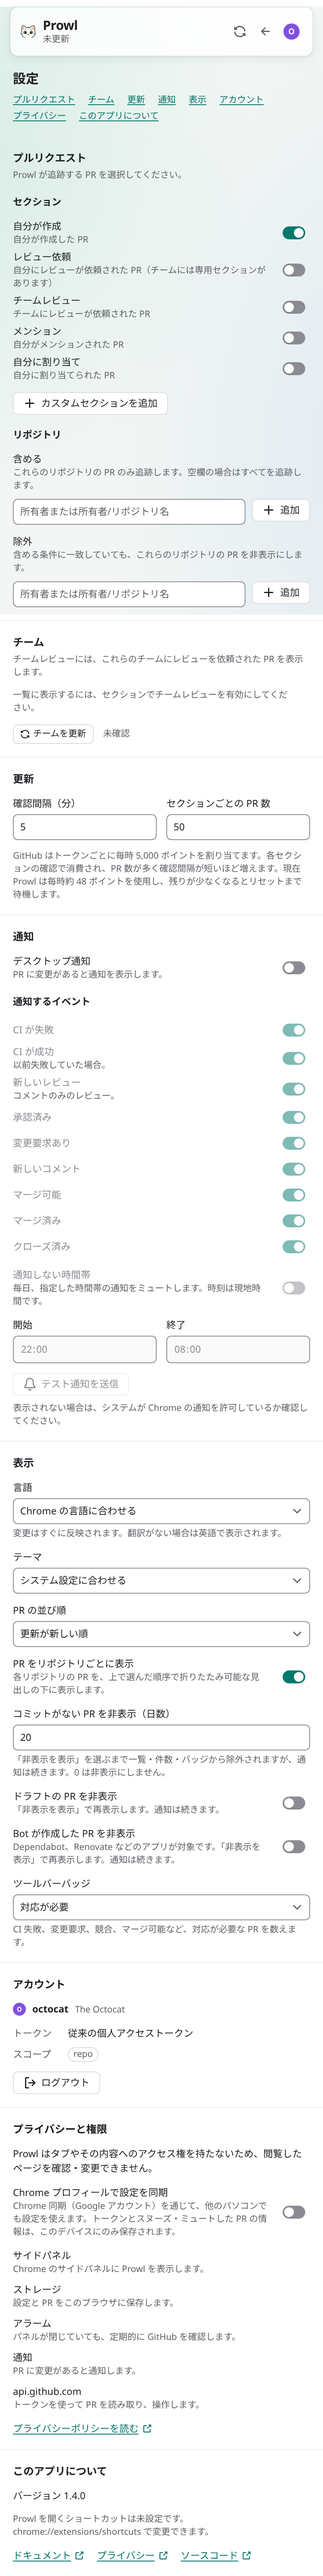
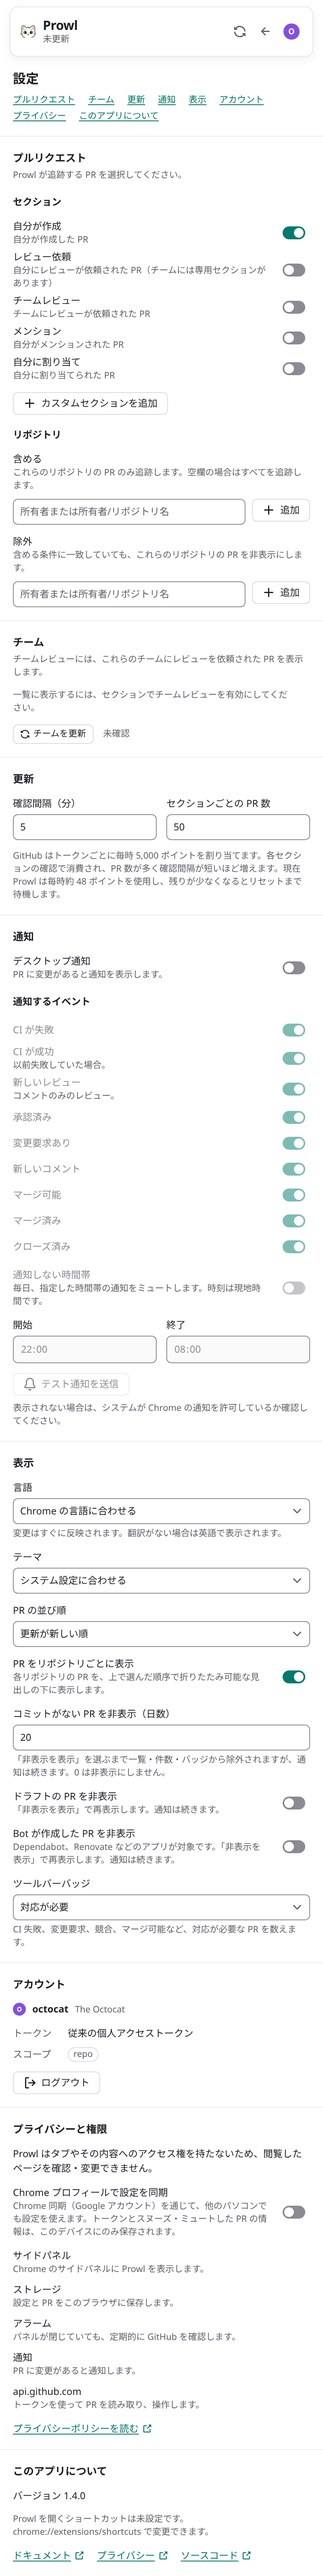
fix(ui): restore solid backgrounds and startup loading
Remove the mint and blue fixed body gradients introduced in PR #38, use the existing solid theme background, and refresh only the English and Japanese settings captures at their existing dimensions. Render the shared loading skeleton before asynchronous language initialization so blocked storage never leaves a blank panel.

Changed region(s): [[0.0, 0.0, 0.375, 0.1562], [0.9062, 0.1249, 1.0, 0.2186]]

diff --git a/src/sidepanel/App.tsx b/src/sidepanel/App.tsx
@@ -4,10 +4,10 @@ import { useEffect, useRef } from 'preact/hooks';
 import { t } from '../lib/i18n';
 import type { Theme } from '../lib/model';
 import { Header } from './components/Header';
+import { Loading } from './components/Loading';
 import { lazy } from './components/lazy';
 import { RefreshAnnouncer, ShortcutsDialog, useShortcuts } from './components/Shortcuts';
 import { StatusBanner } from './components/StatusBanner';
-import { Skeleton } from './components/ui/Skeleton';
 import { ToastRegion } from './components/ui/Toast';
 import { type Route, route } from './state/router';
 import { hydrated, settings } from './state/store';
@@ -35,30 +35,6 @@ const LABELS: Record<Route, string> = {
 function applyTheme(theme: Theme): void {
   if (theme === 'system') delete document.documentElement.dataset.theme;
   else document.documentElement.dataset.theme = theme;
-}
-
-function Loading() {
-  return (
-    <>
-      <Header />
-      <main class="app-main" aria-busy="true" aria-label={t('loading')}>
-        <div class="app-loading">
-          <span class="sr-only" role="status">
-            {t('loading')}
-          </span>
-          {[0, 1, 2].map((row) => (
-            <div class="app-loading__row" key={row}>
-              <Skeleton shape="circle" width={16} />
-              <div class="app-loading__lines">
-                <Skeleton width="85%" />
-                <Skeleton width="50%" />
-              </div>
-            </div>
-          ))}
-        </div>
-      </main>
-    </>
-  );
 }
 
 function Shell() {
@@ -94,7 +70,14 @@ export function App() {
   useSignalEffect(() => applyTheme(settings.value.theme));
   return (
     <>
-      {hydrated.value ? <Shell /> : <Loading />}
+      {hydrated.value ? (
+        <Shell />
+      ) : (
+        <>
+          <Header />
+          <Loading />
+        </>
+      )}
       <ToastRegion />
     </>
   );

diff --git a/src/sidepanel/App.css b/src/sidepanel/App.css
@@ -14,36 +14,6 @@ html {
   outline: none;
 }
 
-.app-loading {
-  display: flex;
-  flex-direction: column;
-  gap: var(--space-4);
-  padding: var(--space-4);
-}
-
-.app-loading__row {
-  display: flex;
-  gap: var(--space-3);
-}
-
-.app-loading__lines {
-  flex: 1;
-}
-
-/* Soft color lives behind the reading surfaces; only chrome needs blur. */
-body {
-  background-image:
-    radial-gradient(ellipse 370px 430px at -15% 25%, var(--glass-mint), transparent),
-    radial-gradient(ellipse 360px 580px at 120% 74%, var(--glass-blue), transparent),
-    linear-gradient(var(--glass-canvas), var(--glass-canvas));
-  background-attachment: fixed;
-}
-@media (prefers-reduced-transparency: reduce) {
-  body {
-    background-image: linear-gradient(var(--glass-canvas), var(--glass-canvas));
-  }
-}
-
 /* A separate backdrop avoids making fixed menus relative to the glass container. */
 .header::after,
 .list__filter::after,

diff --git a/src/sidepanel/components/Loading.tsx b/src/sidepanel/components/Loading.tsx
@@ -1,0 +1,25 @@
+import { t } from '../../lib/i18n';
+import { Skeleton } from './ui/Skeleton';
+import './Loading.css';
+
+/** Available before storage and the selected catalog finish loading. */
+export function Loading() {
+  return (
+    <main class="app-main" aria-busy="true" aria-label={t('loading')}>
+      <div class="app-loading">
+        <span class="sr-only" role="status">
+          {t('loading')}
+        </span>
+        {[0, 1, 2].map((row) => (
+          <div class="app-loading__row" key={row}>
+            <Skeleton shape="circle" width={16} />
+            <div class="app-loading__lines">
+              <Skeleton width="85%" />
+              <Skeleton width="50%" />
+            </div>
+          </div>
+        ))}
+      </div>
+    </main>
+  );
+}

diff --git a/src/sidepanel/main.tsx b/src/sidepanel/main.tsx
@@ -2,6 +2,7 @@ import { render } from 'preact';
 import { messageLocale } from '../lib/i18n';
 import { loadLanguage } from '../lib/storage/language';
 import { subscribeSettings } from '../lib/storage/settings';
+import { Loading } from './components/Loading';
 import { hydrateStore } from './state/store';
 import '../styles/tokens.css';
 import '../styles/base.css';
@@ -24,4 +25,8 @@ async function start(root: HTMLElement) {
 }
 
 const root = document.getElementById('app');
-if (root) void start(root);
+if (root) {
+  document.documentElement.lang = messageLocale();
+  render(<Loading />, root);
+  void start(root);
+}

diff --git a/src/sidepanel/components/Loading.css b/src/sidepanel/components/Loading.css
@@ -1,0 +1,15 @@
+.app-loading {
+  display: flex;
+  flex-direction: column;
+  gap: var(--space-4);
+  padding: var(--space-4);
+}
+
+.app-loading__row {
+  display: flex;
+  gap: var(--space-3);
+}
+
+.app-loading__lines {
+  flex: 1;
+}

diff --git a/docs/patterns.md b/docs/patterns.md
@@ -24,7 +24,7 @@ working knowledge. Keep it short and current: newest knowledge wins.
 - CSS uses semantic tokens only (`--color-*`, `--space-*`, `--text-*`, `--duration-*`); src/styles/tokens.test.ts fails on raw colors outside tokens.css and tokens.base.css and when the contrast table in docs/design.md is stale (it prints the new table). Theme = `document.documentElement.dataset.theme` ('light' | 'dark', absent = system).
 - Mount `<ToastRegion />` once and call `showToast({ message, tone })`. Dialog is controlled (`open`/`onClose`) and restores focus itself.
 - Preact tests: wrap raw `dispatchEvent` calls and fake-timer advances in `act()`. happy-dom has `dialog.showModal()` but no Esc handling: dispatch `new Event('cancel', { cancelable: true })`.
-- Panel state: import the signals from `src/sidepanel/state/store.ts` (`settings`, `auth`, `snapshot`, `pollState`, `prLocal`, `hydrated`; read `.value` in render and the component subscribes), `route` / `navigate()` from `state/router.ts`, `sendToBackground()` from `state/background.ts` and `openGitHubUrl()` from `openUrl.ts` (the only way to open a URL). Views (`ListView`, `SettingsView`, `OnboardingView`) live in `src/sidepanel/views/`; `App` mounts the shell, theme and `ToastRegion`.
+- Panel state: import the signals from `src/sidepanel/state/store.ts` (`settings`, `auth`, `snapshot`, `pollState`, `prLocal`, `hydrated`; read `.value` in render and the component subscribes), `route` / `navigate()` from `state/router.ts`, `sendToBackground()` from `state/background.ts` and `openGitHubUrl()` from `openUrl.ts` (the only way to open a URL). Views (`ListView`, `SettingsView`, `OnboardingView`) live in `src/sidepanel/views/`; `App` mounts the shell, theme and `ToastRegion`. `main.tsx` renders the shared `Loading` skeleton before waiting for storage/catalog reads, then imports `App` once the language is ready; blocked storage must never leave a blank panel.
 - Signals gotcha: a component that reads signals only re-renders when those signals or its props change, so a parent's timer re-render does not reach a child; call `useNow(ms)` (relative times) in the component that shows the time.
 - Panel unit tests: build stored values with `src/test/panel.ts` (`buildAuth`, `buildSnapshot`, `buildPollState`), seed `chrome.storage.local`, `await hydrateStore()` inside `act`, and reset `auth.value` / `location.hash` in `afterEach` (module signals outlive a test).
 - Panel E2E: `seedStorage({ auth, snapshot, pollState })` writes from the service worker and an open panel follows live; seed before `openPanel()` for the first render. Spy on messages with `chrome.runtime.onMessage.addListener` in `serviceWorker.evaluate`.

diff --git a/docs/decisions.md b/docs/decisions.md
@@ -2,6 +2,8 @@
 
 One line each, with the reason. Product decisions from the brief are not repeated here.
 
+- 2026-11-03 — Remove the panel's mint/blue body gradients and fixed background introduced in PR #38. Use the solid `--color-bg` from the existing theme, consistently across languages and full-page captures.
+
 - 2026-11-02 — Localize the extension with Chrome's native `_locales` catalogs (`en`, `ja`, `zh_CN`, `zh_TW`, `fr`, `de`, `es`). Settings → Appearance → Language defaults to Chrome's UI language and offers a saved manual choice. Explicit choices load only the selected packaged catalog; English is the fallback for missing messages or failed catalog loads. Initialize the panel before importing views, and reopen its current route on a language change so every label updates, including other open panels and synced preferences. Worker messages, notifications and badge text use the same preference; Chrome controls manifest text through its own UI language. Settings v2 adds `language`, migrating v1 to automatic selection while preserving existing choices. No remote translation service, new permission or runtime dependency. Dates, numbers, relative times and plurals follow the selected locale. Built-in section names translate at display time so stored and synced settings stay stable; GitHub content and custom names remain user-authored. The website and store listing remain outside this change.
 
 - 2026-10-06 — Sections 3–13 of the brief were collapsed and unreadable to the orchestrator; conventions they may have defined (stack, design, agents, phases) were reconstructed from the visible sections and are recorded below.

diff --git a/docs/design.md b/docs/design.md
@@ -307,8 +307,8 @@ Conflicts (warning) or Ready to merge (success, replaces Approved because it imp
 
 ## Soft Liquid Glass
 
-The panel uses a quiet mint/blue background, translucent rounded PR cards and a floating
-section bar. Glass colors live in the token stylesheets for system and forced light/dark themes.
+The panel uses a solid theme background, translucent rounded PR cards and a floating section
+bar. Glass colors live in the token stylesheets for system and forced light/dark themes.
 Only the header, search and navigation use backdrop blur; cards need no per-card filter.
 The search and header meet as one island, with the search remaining sticky above the cards.
 Titles use the 13 px token; states keep their icon, text and semantic tint. There are no
